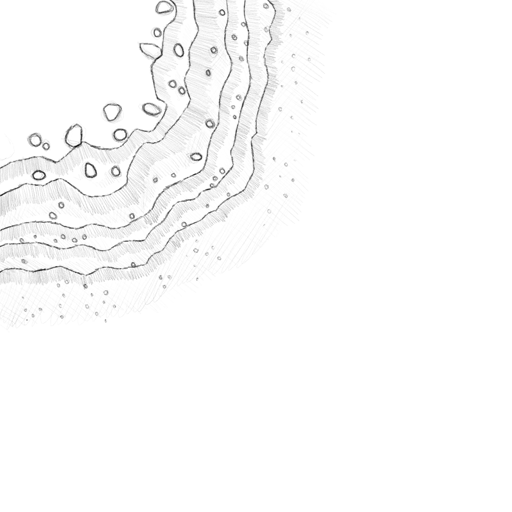
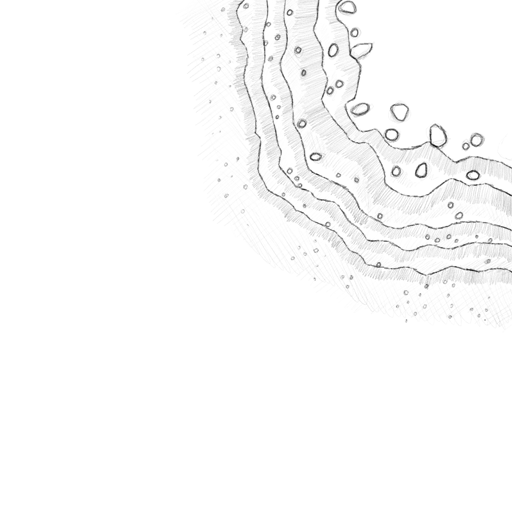
vertical cliff added to border of map1

Changed region(s): [[0.0, 0.0, 1.0, 0.5938], [0.6562, 0.5312, 0.6875, 0.5625], [0.3125, 0.5312, 0.3438, 0.5625]]

diff --git a/src/main/java/EnviromentObjects/CliffBottomLeft.java b/src/main/java/EnviromentObjects/CliffBottomLeft.java
@@ -1,0 +1,69 @@
+/*
+ * To change this license header, choose License Headers in Project Properties.
+ * To change this template file, choose Tools | Templates
+ * and open the template in the editor.
+ */
+package EnviromentObjects;
+
+import GameObject.GameStaticObject;
+import GameObject.Point;
+import com.mycompany.robotgame.LoadAllResources;
+import com.mycompany.robotgame.MonitorWindow;
+import java.util.ArrayList;
+import java.util.List;
+import javafx.scene.canvas.GraphicsContext;
+import javafx.scene.image.Image;
+import javafx.scene.shape.Shape;
+
+/**
+ *
+ * @author Dendra
+ */
+public class CliffBottomLeft extends GameStaticObject{
+    private final Image cliffBottomLeftImage = LoadAllResources.getMapOfAllImages().get("cliffBottomLeftCorner");
+    private final List<Point> pointsForDetection = new ArrayList<>();
+
+    public CliffBottomLeft(Point possition, double width, double heigh, GraphicsContext graphicsContext, MonitorWindow monitorWindow) {
+        super(getPoints(possition), possition, width, heigh, graphicsContext, monitorWindow);
+    }
+
+    private static List<Point> getPoints(Point possition) {
+        List<Point> pointList = new ArrayList<>();
+        pointList.add(new Point(235 + possition.getCoordX(), 0 + possition.getCoordY()));
+        pointList.add(new Point(258 + possition.getCoordX(), 181 + possition.getCoordY()));
+        pointList.add(new Point(380 + possition.getCoordX(), 285 + possition.getCoordY()));
+        pointList.add(new Point(512 + possition.getCoordX(), 287 + possition.getCoordY()));
+        pointList.add(new Point(512 + possition.getCoordX(), 167 + possition.getCoordY()));
+        pointList.add(new Point(377 + possition.getCoordX(), 132 + possition.getCoordY()));
+        pointList.add(new Point(347 + possition.getCoordX(), 0 + possition.getCoordY()));
+        return pointList;
+    }
+
+    @Override
+    public void paintGameObject() {
+        Point monitorPossition = monitorWindow.getPositionInWorld();
+        graphicsContext.drawImage(cliffBottomLeftImage, worldPossition.getCoordX() - monitorPossition.getCoordX(), worldPossition.getCoordY() - monitorPossition.getCoordY());
+    }
+
+    @Override
+    public boolean detectCollision(Shape shape, Point playerWorldPosition) {
+        createPolygonForDetection();
+        Shape intersect = Shape.intersect(shape, gameObjectPolygon);
+        if (intersect.getLayoutBounds().getHeight() <= 0 || intersect.getLayoutBounds().getWidth() <= 0) {
+            return false;
+        }
+        return true;
+    }
+
+    private void createPolygonForDetection() {
+        pointsForDetection.clear();
+        pointsForDetection.add(new Point(235 + worldPossition.getCoordX(), 0 + worldPossition.getCoordY()));
+        pointsForDetection.add(new Point(258 + worldPossition.getCoordX(), 181 + worldPossition.getCoordY()));
+        pointsForDetection.add(new Point(380 + worldPossition.getCoordX(), 285 + worldPossition.getCoordY()));
+        pointsForDetection.add(new Point(512 + worldPossition.getCoordX(), 287 + worldPossition.getCoordY()));
+        pointsForDetection.add(new Point(512 + worldPossition.getCoordX(), 167 + worldPossition.getCoordY()));
+        pointsForDetection.add(new Point(377 + worldPossition.getCoordX(), 132 + worldPossition.getCoordY()));
+        pointsForDetection.add(new Point(347 + worldPossition.getCoordX(), 0 + worldPossition.getCoordY()));
+        createPolygon(pointsForDetection);
+    }
+}

diff --git a/src/main/java/EnviromentObjects/CliffVertical.java b/src/main/java/EnviromentObjects/CliffVertical.java
@@ -19,27 +19,27 @@ import javafx.scene.shape.Shape;
  *
  * @author Dendra
  */
-public class CliffHorizontal extends GameStaticObject{
-    private final Image cliffHorizontalImage = LoadAllResources.getMapOfAllImages().get("cliffHorizontal");
+public class CliffVertical extends GameStaticObject{
+    private final Image cliffVerticalImage = LoadAllResources.getMapOfAllImages().get("cliffVertical");
     private final List<Point> pointsForDetection = new ArrayList<>();
 
-    public CliffHorizontal(Point possition, double width, double heigh, GraphicsContext graphicsContext, MonitorWindow monitorWindow) {
+    public CliffVertical(Point possition, double width, double heigh, GraphicsContext graphicsContext, MonitorWindow monitorWindow) {
         super(getPoints(possition), possition, width, heigh, graphicsContext, monitorWindow);
     }
 
     private static List<Point> getPoints(Point possition) {
         List<Point> pointList = new ArrayList<>();
-        pointList.add(new Point(0 + possition.getCoordX(), 150 + possition.getCoordY()));
-        pointList.add(new Point(1024 + possition.getCoordX(), 150 + possition.getCoordY()));
-        pointList.add(new Point(0 + possition.getCoordX(), 322 + possition.getCoordY()));
-        pointList.add(new Point(1024 + possition.getCoordX(), 322 + possition.getCoordY()));
+        pointList.add(new Point(150 + possition.getCoordX(), 0 + possition.getCoordY()));
+        pointList.add(new Point(150 + possition.getCoordX(), 1024 + possition.getCoordY()));
+        pointList.add(new Point(322 + possition.getCoordX(), 0 + possition.getCoordY()));
+        pointList.add(new Point(322 + possition.getCoordX(), 1024 + possition.getCoordY()));
         return pointList;
     }
 
     @Override
     public void paintGameObject() {
         Point monitorPossition = monitorWindow.getPositionInWorld();
-        graphicsContext.drawImage(cliffHorizontalImage, worldPossition.getCoordX() - monitorPossition.getCoordX(), worldPossition.getCoordY() - monitorPossition.getCoordY());
+        graphicsContext.drawImage(cliffVerticalImage, worldPossition.getCoordX() - monitorPossition.getCoordX(), worldPossition.getCoordY() - monitorPossition.getCoordY());
     //    createPolygonForDetection(playerWorldPosition.getCoordX(), playerWorldPosition.getCoordY());
     }
 
@@ -55,10 +55,10 @@ public class CliffHorizontal extends GameStaticObject{
 
     private void createPolygonForDetection() {
         pointsForDetection.clear();
-        pointsForDetection.add(new Point(0 + worldPossition.getCoordX(), 150 + worldPossition.getCoordY()));
-        pointsForDetection.add(new Point(1024 + worldPossition.getCoordX(), 150 + worldPossition.getCoordY()));
-        pointsForDetection.add(new Point(1024 + worldPossition.getCoordX(), 322 + worldPossition.getCoordY()));
-        pointsForDetection.add(new Point(0 + worldPossition.getCoordX(), 322 + worldPossition.getCoordY()));
+        pointsForDetection.add(new Point(150 + worldPossition.getCoordX(), 0 + worldPossition.getCoordY()));
+        pointsForDetection.add(new Point(150 + worldPossition.getCoordX(), 1024 + worldPossition.getCoordY()));
+        pointsForDetection.add(new Point(322 + worldPossition.getCoordX(), 1024 + worldPossition.getCoordY()));
+        pointsForDetection.add(new Point(322 + worldPossition.getCoordX(), 0 + worldPossition.getCoordY()));
         createPolygon(pointsForDetection);
     }
 }

diff --git a/src/main/java/com/mycompany/robotgame/CreateMap1.java b/src/main/java/com/mycompany/robotgame/CreateMap1.java
@@ -6,7 +6,9 @@
 package com.mycompany.robotgame;
 
 import EnviromentObjects.BackgroundHex;
+import EnviromentObjects.CliffBottomLeft;
 import EnviromentObjects.CliffHorizontal;
+import EnviromentObjects.CliffVertical;
 import EnviromentObjects.SpaceShipWreckage;
 import GameObject.Point;
 import MapGridTable.GridTable;
@@ -19,26 +21,35 @@ import javafx.scene.image.Image;
  * @author Dendra
  */
 public class CreateMap1 {
+
     private GraphicsContext graphicsContext;
     private MonitorWindow monitorWindow;
-    
+
     public CreateMap1(GraphicsContext graphicsContext, MonitorWindow monitorWindow) {
         this.graphicsContext = graphicsContext;
         this.monitorWindow = monitorWindow;
     }
-    
-    public void generatedObjectForGame(GridTable gridTable){
+
+    public void generatedObjectForGame(GridTable gridTable) {
         SpaceShipWreckage spaceShipWreckage = new SpaceShipWreckage(new Point(2048, 8216), 512, 512, graphicsContext, monitorWindow);
         gridTable.insertGameObjectIntoGridCell(spaceShipWreckage);
     }
-    
-    public void generateGameMapBorders(GridTable gridTable){
-        for (int i = 0; i < 4; i++){
-            CliffHorizontal cliffHorizontal = new CliffHorizontal(new Point(i*1024, 9000), 1024, 512, graphicsContext, monitorWindow);
+
+    public void generateGameMapBorders(GridTable gridTable) {
+        CliffBottomLeft cliffBottomLeft = new CliffBottomLeft(new Point(0, 9000), 512, 512, graphicsContext, monitorWindow);
+        gridTable.insertGameObjectIntoGridCell(cliffBottomLeft);
+
+        for (int i = 0; i < 4; i++) {
+            CliffHorizontal cliffHorizontal = new CliffHorizontal(new Point(i * 1024 + 512, 9000), 1024, 512, graphicsContext, monitorWindow);
             gridTable.insertGameObjectIntoGridCell(cliffHorizontal);
         }
+
+        for (int i = 1; i < 5; i++) {
+            CliffVertical cliffVertical = new CliffVertical(new Point(0, 9000 - i * 1024), 512, 1024, graphicsContext, monitorWindow);
+            gridTable.insertGameObjectIntoGridCell(cliffVertical);
+        }
     }
-    
+
     public void generateBackground(GridTable gridTable) {
         Image image;
         Random random = new Random();
@@ -99,5 +110,5 @@ public class CreateMap1 {
             }
         }
     }
-    
+
 }

diff --git a/src/main/java/com/mycompany/robotgame/LoadAllResources.java b/src/main/java/com/mycompany/robotgame/LoadAllResources.java
@@ -75,6 +75,15 @@ import javafx.scene.media.AudioClip;
     private void loadCliffs(){
         Image image = new Image("/cliffs/cliffHorizontal.png", 1024, 512, false, false);
         mapOfAllImages.put("cliffHorizontal", image);
+        
+        image = new Image("/cliffs/cliffVertical.png", 512, 1024, false, false);
+        mapOfAllImages.put("cliffVertical", image);
+        
+        image = new Image("/cliffs/cliff_corner_BottomLeft.png", 512, 512, false, false);
+        mapOfAllImages.put("cliffBottomLeftCorner", image);
+        
+        image = new Image("/cliffs/cliff_corner_BottomRight.png", 512, 512, false, false);
+        mapOfAllImages.put("cliffBottomRIghtCorner", image);
     }
     
     private void loadMinigunMissImages(){
